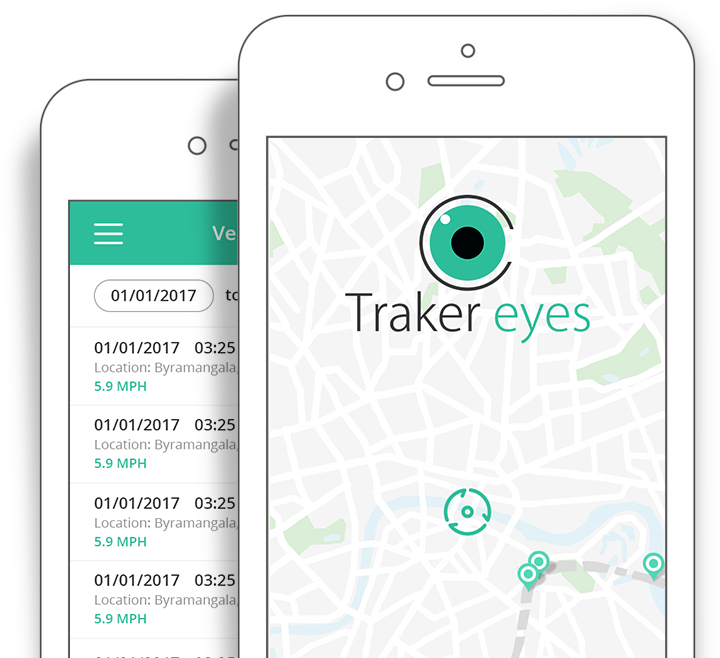
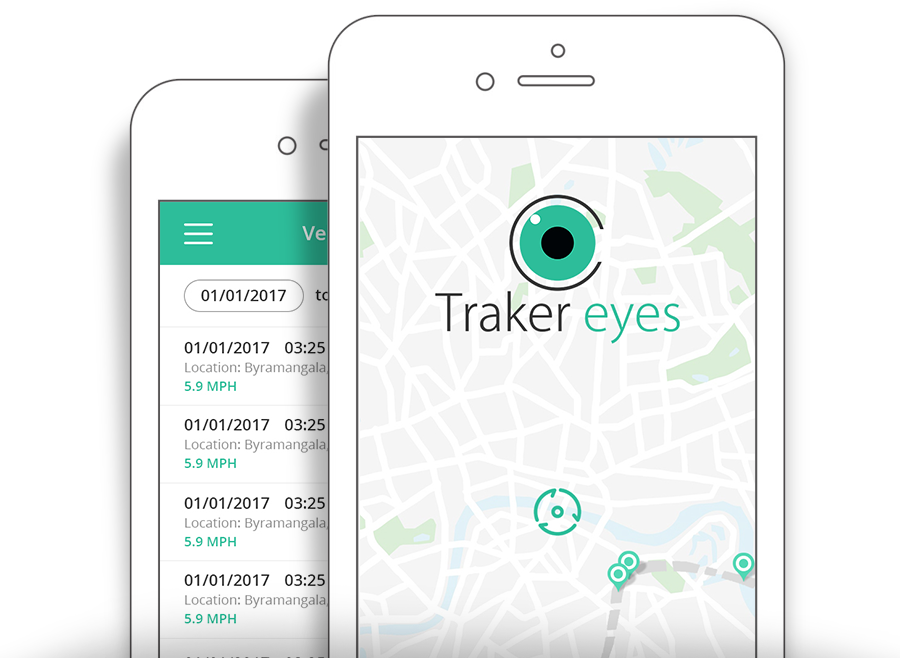
design update

diff --git a/css/style.css b/css/style.css
@@ -67,7 +67,7 @@ i {vertical-align: middle;}
 .banner_section .row { margin-bottom:0;}
 .container-fluid .col { padding:0; margin:0;}
 header .col ul li { display:inline-block;}
-header .col ul li a {text-align: center; padding: 13px 0px 0px; margin: 0px 10px 10px; font-size:13px; color:#616161; text-decoration:none; position:relative;}
+header .col ul li a {text-align: center; padding: 13px 0px 0px; margin: 0px 10px 10px; font-size:14px; color:#616161; text-decoration:none; position:relative;}
 header .col ul li a:hover { color:#1ea181;}
 header .dropdown-content {min-width: 172px !important; top: 70px !important; left: 88.1% !important;}
 header .dropdown-content li { text-align:left!important; padding:5px 10px!important; margin:0!important;min-height: inherit; font-size: 14px; color:#b3b3b3;}
@@ -118,7 +118,7 @@ header i { color:#999;}
 .profile_text { font-size:12px!important; line-height:16px!important; color:#333!important; text-transform:uppercase!important;}
 .profile_text span { color:#2dbd9a!important; font-size:12px!important; padding: 0 !important; text-transform: none!important;}
 .eligibility_but a:hover { background: #2dbd9a; color: #fff !important; border: 1px solid #2dbd9a;}
-header .container-fluid .row {position: fixed; width: 1440px; background: #fff; border-bottom: 1px solid #eee; top: 0; z-index:99;}
+header .container-fluid .row {position: fixed; width: 1440px; background: #fff; border-bottom: 1px solid #f8f8f8; top: 0; z-index:99;}
 
 .banner_section { margin-top:70px;}
 .banner_section img { width:100%; float: left;}
@@ -192,9 +192,11 @@ header .container-fluid .row {position: fixed; width: 1440px; background: #fff; 
 }
 .global_footer_item a {color: #fff; opacity: .48; height: 20px; overflow: hidden; display: inline-block;}
 
+.we_care_main img {width: 600px; float: right; margin-top: 60px;}
+
 .how_to_get .content_part { padding:80px 80px 0; position:relative; width: 100%;}
 .how_to_get .content_part .s4 {padding:0 15px;}
-.app_img img { width:85%; float: right;}
+.app_img img { width:85%; float: right; margin-top: 80px;}
 .how_to_get .content_part img { width:300px;}
 .position_img {min-height: 396px;}
 .position_img img { position:absolute; right:80px; bottom:0; }
@@ -203,11 +205,13 @@ header .container-fluid .row {position: fixed; width: 1440px; background: #fff; 
 .how_to_get .content_part a img {width:200px; transition: all 150ms ease;}
 .how_to_get .content_part a img:hover { opacity:0.6; }
 
-.map_img_sec { position:relative; height:660px; overflow:hidden; background: #000;}
+.map_img_sec { position:relative; height:660px; overflow:hidden; background: #fff; border-bottom:1px solid #f8f8f8;}
+.map_img_sec h2 {font-size: 40px; font-weight: 600; width: 60%; padding: 100px; float: left; font-family: 'Montserrat', sans-serif; line-height: 50px; text-transform: uppercase;}
 .profile_img { position: absolute; right: 0; height: 660px;}
 .profile_img img {height: 660px; width: 730px;}
 .map_img_sec img.map_section {height: 660px; margin-left: -131px;}
 
+.phone_banner img { width:250px; float:left; margin-left: 150px; margin-top: 50px;}
 .position_drop { position:relative;}
 header .position_drop .dropdown-content {min-width: 200px !important; top: 50px !important; left: 0 !important;}
 

diff --git a/home.html b/home.html
@@ -96,11 +96,13 @@ jQuery(document).ready(function(){
 	<div class="row">
     <div class="col s12">
     	<div class="map_img_sec">
+        <div class="well"><h2 class="demo2 text-danger">We help you to track whatever is precious for you and Worlds first tracking platform that is using Blockchain to keep your sensitive data</h2></div>
+        <figure class="phone_banner"><img src="images/img_iphone_back.png" alt=""></figure>
         <figure class="down_arrow"><a href="#" id="scroll"><img src="images/downbutton.png" alt=""></a></figure>
-    	<!--<div class="profile_img"><img src="images/banner01.png" alt=""></div>-->
+    	<!--<div class="profile_img"><img src="images/banner01.png" alt=""></div>
         <video autoplay loop>
         <source src="images/animation_7.mp4" type="video/mp4">
-        </video>
+        </video>-->
         </div>
 		
     </div>
@@ -156,7 +158,7 @@ jQuery(document).ready(function(){
     </div>
     
     <div class="row">
-    <div class="col s12">
+    <div class="col s12 we_care_main">
 		<div class="col s6 aos-item" data-aos="zoom-out-down">
         <div class="content_part aos-item__inner">
         <h2>KINDER</h2>
